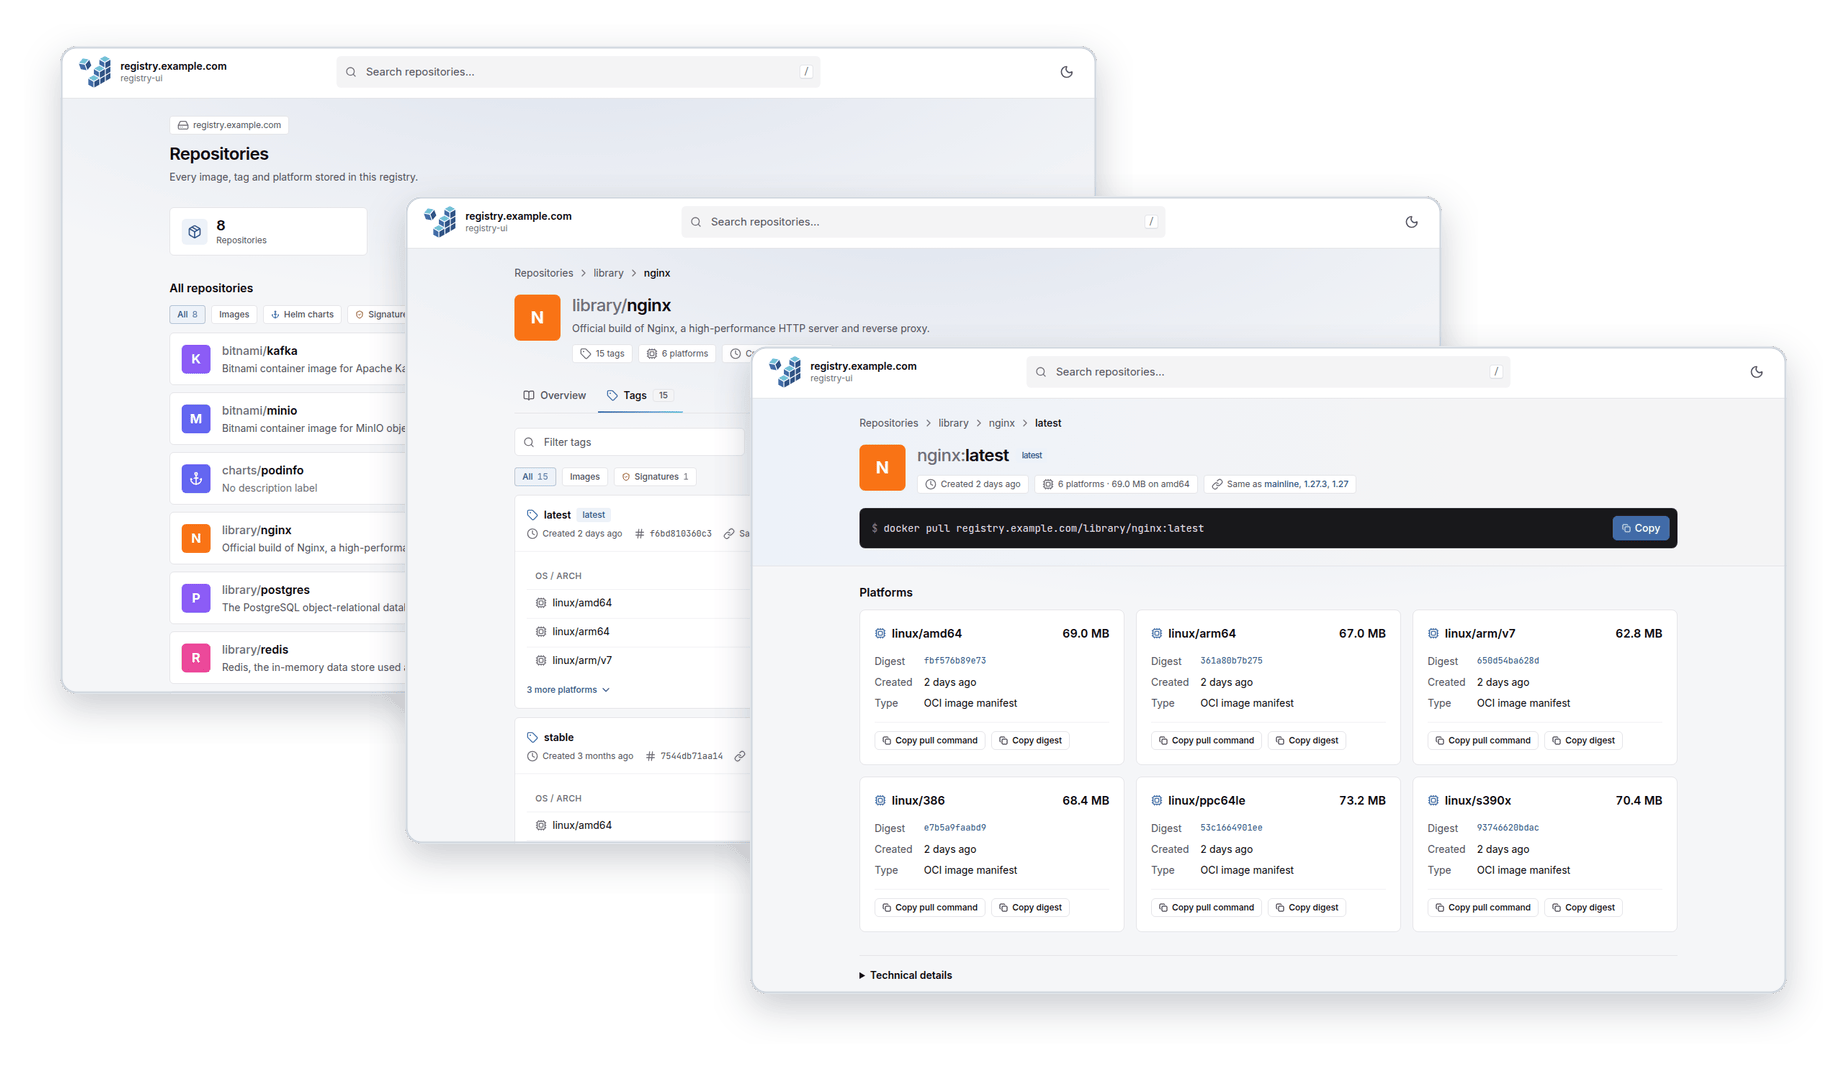
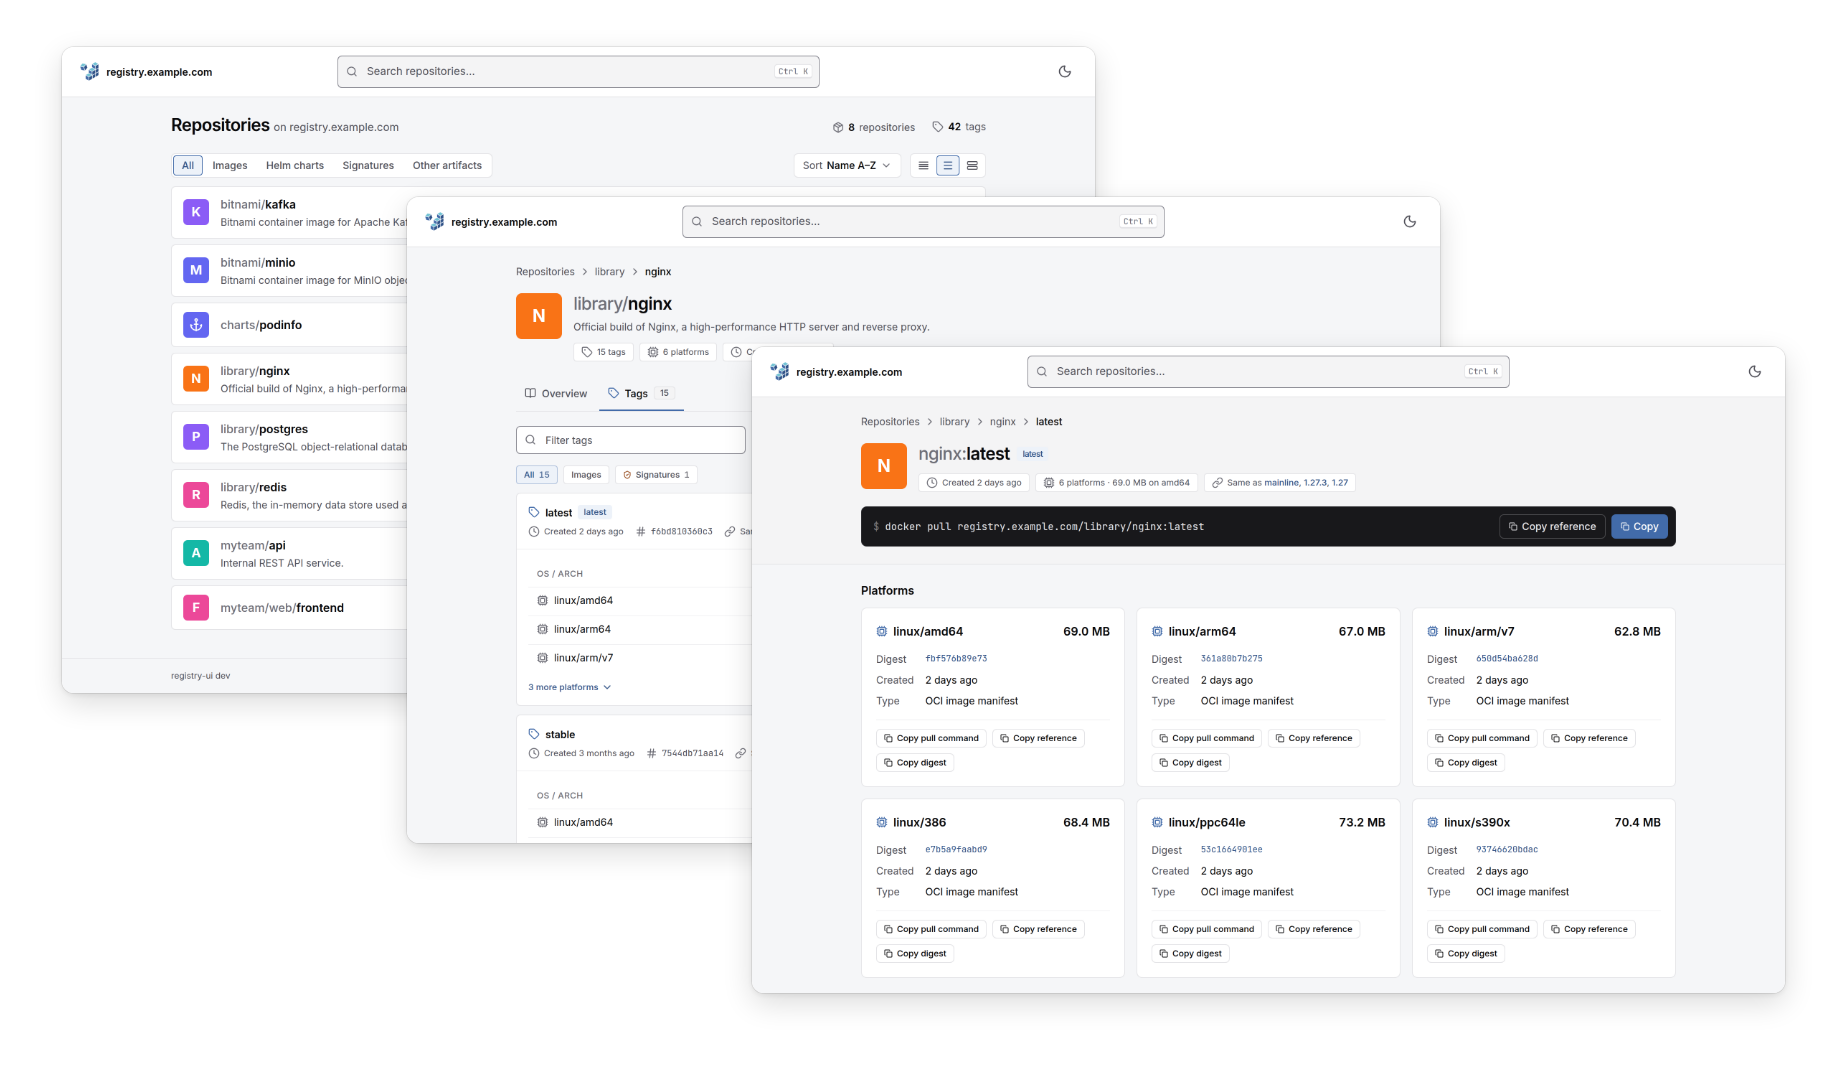
docs: complete the documentation for 1.0 (#155)
The README now lists both places the image is published and how its
tags work, shows a setup for a registry behind htpasswd, and has a
troubleshooting section for the problems people hit most: an
unreachable registry, TLS and private CAs, a registry that won't list
its repositories, sub-path proxies, sign-in behind a proxy, and storage
mode pointed at the wrong folder. The tagline is new, the container
image badge is gone, and the screenshot is retaken from the current UI.

The development notes move to a new CONTRIBUTING.md, which also covers
the checks CI runs, the footprint budgets, the benchmarks and the
project's conventions.

Closes #33

diff --git a/README.md b/README.md
@@ -5,11 +5,10 @@
   </picture>
 </p>
 
-<p align="center">See what's in your container registry, including your pull-through cache.</p>
+<p align="center">A lightweight web UI for self-hosted Docker/OCI registries</p>
 
 <p align="center">
   <a href="https://github.com/Ahhhh-man/registry-ui/actions/workflows/ci.yml"><img src="https://github.com/Ahhhh-man/registry-ui/actions/workflows/ci.yml/badge.svg" alt="CI"></a>
-  <a href="https://github.com/Ahhhh-man/registry-ui/pkgs/container/registry-ui"><img src="https://img.shields.io/badge/image-ghcr.io%2Fahhhh--man%2Fregistry--ui-blue" alt="Container image"></a>
   <a href="go.mod"><img src="https://img.shields.io/badge/go-1.27-00ADD8?logo=go&amp;logoColor=white" alt="Go version"></a>
   <a href="LICENSE"><img src="https://img.shields.io/badge/license-MIT-blue" alt="License"></a>
 </p>
@@ -46,8 +45,6 @@ volumes:
   registry-data:
 ```
 
-The same image is on Docker Hub as `ahhhhman/registry-ui`, if you'd rather pull from there.
-
 Push something, then open <http://localhost:8080>:
 
 ```sh
@@ -57,6 +54,21 @@ docker push localhost:5000/busybox
 ```
 
 The UI talks to the registry from the server. Docker clients still talk to the registry directly and browsers never do, so there's no CORS to set up. The UI starts even if the registry isn't up yet. The healthcheck only checks the UI itself, so a registry outage won't restart it.
+
+## Images
+
+Each release is one multi-arch image for `linux/amd64` and `linux/arm64`, published in two places:
+
+| Registry | Image |
+|---|---|
+| GitHub Container Registry | `ghcr.io/ahhhh-man/registry-ui` |
+| Docker Hub | `docker.io/ahhhhman/registry-ui` |
+
+They're the same image with the same digest. Prefer ghcr; Docker Hub is a mirror for networks that can only reach Docker Hub, and its pull limits apply there.
+
+Tags are the release version without the `v`, e.g. `1.0.0`, plus `latest`. There are no `1` or `1.0` tags, so pin the full version if you don't want to follow `latest`.
+
+The image runs as a non-root user and has nothing in it but the binary and CA certificates, so there's no shell to `docker exec` into. Logs go to stdout.
 
 ## Configuration
 
@@ -114,6 +126,44 @@ The UI has no users of its own. It does whatever the registry does:
 - Your credentials are sealed (AES-GCM) in an `HttpOnly` cookie that lasts 12 hours. Nothing is written to disk.
 - Without `REGISTRY_UI_SECRET`, the UI picks a new key every time it starts, so a restart signs everyone out. Set it to any long random string, e.g. `openssl rand -hex 32`.
 
+Here's the quick start with the registry behind htpasswd. Create the password file first. The `registry:3` image doesn't ship `htpasswd`, so borrow it from `httpd`:
+
+```sh
+mkdir -p auth
+docker run --rm --entrypoint htpasswd httpd:2 -Bbn alice 'change-me' > auth/htpasswd
+```
+
+```yaml
+services:
+  registry:
+    image: registry:3
+    ports: ["5000:5000"]
+    environment:
+      REGISTRY_AUTH: htpasswd
+      REGISTRY_AUTH_HTPASSWD_REALM: registry
+      REGISTRY_AUTH_HTPASSWD_PATH: /auth/htpasswd
+    volumes:
+      - registry-data:/var/lib/registry
+      - ./auth:/auth:ro
+
+  registry-ui:
+    image: ghcr.io/ahhhh-man/registry-ui:latest
+    ports: ["8080:8080"]
+    environment:
+      REGISTRY_UI_REGISTRY_URL: http://registry:5000
+      REGISTRY_UI_PULL_URL: localhost:5000
+      REGISTRY_UI_SECRET: ${REGISTRY_UI_SECRET:?set it in .env}
+    healthcheck:
+      test: ["CMD", "/registry-ui", "healthcheck"]
+
+volumes:
+  registry-data:
+```
+
+Put `REGISTRY_UI_SECRET=` and a random value in a `.env` file next to `compose.yaml`. Open <http://localhost:8080> and the UI asks you to sign in as `alice`.
+
+Behind a token server (`REGISTRY_AUTH: token`), the UI signs in the same way. The token server decides what each user may see, so it has to grant `registry:catalog:*` for the repository list to work. See [The repository list says "You can't list repositories"](#the-repository-list-says-you-cant-list-repositories).
+
 ## Pull-through caches
 
 If your registry is a pull-through cache (`REGISTRY_PROXY_REMOTEURL`), use storage mode. Browsing a cache through its API asks the upstream for every tag list, and clicking a tag that isn't cached yet makes the registry pull and store it. Both eat into your upstream rate limit, and you end up looking at the upstream's tags instead of your cache.
@@ -157,9 +207,56 @@ Some limits:
 
 [CNCF Distribution](https://distribution.github.io/distribution/) (`registry:2` and `registry:3`) is the one that's supported and tested. Other registries that implement the OCI distribution API and `/v2/_catalog` should work, but nobody has tested them. GHCR, Docker Hub and ECR restrict or leave out `_catalog`, so don't expect them to work.
 
+## Troubleshooting
+
+Start with the UI's logs (`docker compose logs registry-ui`). Every request is logged, and a failed one also logs the error the registry gave. `REGISTRY_UI_LOG_LEVEL=debug` adds the reasons for not-found pages and sign-in redirects.
+
+### "Can't reach the registry"
+
+The UI couldn't connect to the registry, or the registry answered with a server error. Things to check:
+
+- `REGISTRY_UI_REGISTRY_URL` is the address *the UI's container* uses, not your browser. In Compose that's the service name, e.g. `http://registry:5000`, not `localhost`.
+- The scheme matches. A registry without TLS needs `http://`. A registry with TLS needs `https://`.
+- The registry is up: `docker compose logs registry`. The page has a Try again button, so it's fine if the UI starts first.
+
+### TLS errors and private CAs
+
+If the log shows `x509: certificate signed by unknown authority`, the registry's certificate comes from a CA the image doesn't trust. Mount your CA certificate and point `SSL_CERT_DIR` at its folder:
+
+```yaml
+    environment:
+      SSL_CERT_DIR: /certs
+    volumes: ["./ca:/certs:ro"]
+```
+
+`x509: certificate is valid for …, not …` means `REGISTRY_UI_REGISTRY_URL` uses a different host name than the certificate. Use the name on the certificate. `REGISTRY_UI_REGISTRY_INSECURE=true` skips verification, which is fine for a quick test but not for good.
+
+### The repository list says "You can't list repositories"
+
+The registry answered `403` (or `401` while signed in) to `/v2/_catalog`. With htpasswd every signed-in user may list repositories, so this nearly always means a token server that doesn't grant the `registry:catalog:*` scope to that user, or to anonymous users. Grant it there. Until then you can still open a repository by typing its address after the UI's URL, e.g. `/library/nginx`.
+
+### Pages are blank, unstyled or 404 under a sub-path
+
+- `REGISTRY_UI_BASE_PATH` has to match the path the proxy forwards, e.g. `/registry/`.
+- The proxy has to pass the path through *with* the prefix. If it strips `/registry`, the UI answers every page with "Not found". In nginx that means `proxy_pass http://registry-ui:8080;` with no path after the port. In Caddy, use `handle`, not `handle_path`.
+- Opening `/registry` without the trailing slash redirects to `/registry/`, which is expected.
+
+### Sign-in says "cross-origin request refused"
+
+The sign-in form only accepts posts from its own site. It compares the browser's `Origin` with the `Host` the UI sees, or with `X-Forwarded-Host`. Make the proxy pass the original `Host`, or set `X-Forwarded-Host`, and pass `X-Forwarded-Proto` so the cookie is marked `Secure`. See [TLS and reverse proxies](#tls-and-reverse-proxies).
+
+Sign-in also lasts only until the UI restarts unless `REGISTRY_UI_SECRET` is set.
+
+### Storage mode won't start, or shows nothing
+
+- `not a registry storage root (no docker/registry/v2 inside)` means `REGISTRY_UI_STORAGE_PATH` points at the wrong folder. It has to be the folder the registry has at `/var/lib/registry`, the one that contains `docker/registry/v2`, not that folder itself or its parent.
+- The UI starts but the list is empty: the UI is probably looking at a different volume from the registry. Both services have to mount *the same* named volume or host folder. A typo in the volume name gives you a new, empty one. `docker compose exec registry ls /var/lib/registry/docker/registry/v2/repositories` shows what the registry has.
+- A permission error in the log means the UI's user (UID 65532) can't read the files. Make the storage world-readable, or run the UI with the registry's user (`user:` in Compose).
+- Storage mode needs the `filesystem` storage driver. With S3 or another driver there's nothing on disk to read, so use the API instead.
+
 ## No telemetry
 
-The UI only ever talks to the registry you point it at. No telemetry, no update checks, no CDNs. Fonts, scripts and styles are all embedded in the binary. The footer's links to GitHub are plain links: nothing is fetched from GitHub, and the UI never checks whether a newer version exists.
+The UI only ever talks to the registry you point it at. It has no telemetry and loads nothing from a CDN, because fonts, scripts and styles are all embedded in the binary. The footer links to GitHub, but they're plain links. Nothing is fetched from GitHub, and the UI never checks for a newer version.
 
 ## Footprint
 
@@ -169,42 +266,21 @@ The UI is meant to cost next to nothing while nobody is using it. It has three b
 |---|---|
 | Image under 20 MB uncompressed | 12.2 MB on amd64, 11.4 MB on arm64 |
 | Idle memory under 15 MB, after browsing 1,000 repositories with 5,000 tags | About 11.5 MB in storage mode and 13 MB in API mode |
-| Nothing running while idle | One goroutine, waiting for a connection. No CPU time over 100 seconds in storage mode, and 20–30 ms in API mode, where the registry connections close during the wait |
+| Nothing running while idle | One goroutine, waiting for a connection. No CPU time over 100 seconds in storage mode, and 20 to 30 ms in API mode, where the registry connections close during the wait |
 
 How they're measured:
 
-- **Image size** is the uncompressed image tarball from `nix build .#image`, the sum of its layers. CI fails a pull request whose amd64 image is over the limit, and the release workflow checks both architectures before it pushes anything.
-- **Idle memory** is the private resident memory (`RssAnon` in `/proc/<pid>/status`) of the release binary. It's what the process allocated, and about what `docker stats` shows: 11.8 MiB for the storage mode run in a container. Total RSS is about 10 MB higher, because it also counts the executable's own pages, which are shared with the page cache. The test serves a generated registry of 1,000 repositories, each with 5 tags that are two-platform images. It loads the catalog in every view, then sorted and filtered in the ways that read every repository's details, then each repository sorted by created date, which reads every tag, and one tag page per repository. Then it leaves the UI alone for 100 seconds and reads the memory.
-- **Nothing running** comes from the same run. After the idle wait, the test sends `SIGQUIT`, which makes the Go runtime print every goroutine as it exits. Apart from the runtime's own, only the server's listener may be left. The registry client keeps idle connections open for 90 seconds, which is why the wait is 100. The test also reads the process's CPU time before and after the wait.
+- Image size is the uncompressed image tarball from `nix build .#image`, the sum of its layers. CI fails a pull request whose amd64 image is over the limit, and the release workflow checks both architectures before it pushes anything.
+- Idle memory is the private resident memory (`RssAnon` in `/proc/<pid>/status`) of the release binary. It's what the process allocated, and about what `docker stats` shows: 11.8 MiB for the storage mode run in a container. Total RSS is about 10 MB higher, because it also counts the executable's own pages, which are shared with the page cache. The test serves a generated registry of 1,000 repositories, each with 5 tags that are two-platform images. It loads the catalog in every view, then sorted and filtered in the ways that read every repository's details, then each repository sorted by created date, which reads every tag, and one tag page per repository. Then it leaves the UI alone for 100 seconds and reads the memory.
+- Nothing running comes from the same run. After the idle wait, the test sends `SIGQUIT`, which makes the Go runtime print every goroutine as it exits. Apart from the runtime's own, only the server's listener may be left. The registry client keeps idle connections open for 90 seconds, which is why the wait is 100. The test also reads the process's CPU time before and after the wait.
 
 To stay inside the memory budget, the cache holds 5,000 entries, enough for one person to sort a catalog of about 1,600 repositories. The UI also sets the Go runtime's soft memory limit to 10 MiB, so it collects garbage sooner and hands memory back to the OS. Setting `GOMEMLIMIT` replaces that limit.
 
 To check all three on Linux, run `task budget`. It takes about two minutes. It builds the image for your own architecture only.
 
-## Development
+## Contributing
 
-You need [Nix](https://nixos.org) with flakes. The dev shell has Go, the linters, the Tailwind CLI and [Task](https://taskfile.dev).
-
-```sh
-nix develop
-task dev     # serves on :8080, templates and CSS reload on refresh
-task test
-task lint
-task build   # ./registry-ui
-task image   # builds the container image with Nix and loads it into Docker
-```
-
-With [direnv](https://direnv.net) and [nix-direnv](https://github.com/nix-community/nix-direnv), run `direnv allow` once and the dev shell loads whenever you `cd` into the repo.
-
-`task dev` needs `REGISTRY_UI_REGISTRY_URL` pointing at a registry. To work on the UI without one, build with `-tags fake`. That serves built-in sample data. The URL still has to be set, but it isn't used:
-
-```sh
-REGISTRY_UI_REGISTRY_URL=http://unused go run -tags fake .
-```
-
-The CSS is built from `web/tailwind.css` into `internal/ui/static/app.css` with the Tailwind standalone CLI (`task css`, or watched by `task dev`). The output is committed, so building and running the UI needs only Go, with no Node or Tailwind. CI checks that the committed file is up to date, so run `task css` before you commit a template or style change.
-
-No Nix? The `Dockerfile` builds an equivalent image: `docker build -t registry-ui .`. The published image is the Nix one.
+Bug reports and pull requests are welcome. [CONTRIBUTING.md](CONTRIBUTING.md) covers the dev setup and the checks CI runs.
 
 ## License
 

diff --git a/CONTRIBUTING.md b/CONTRIBUTING.md
@@ -1,0 +1,72 @@
+# Contributing
+
+Bug reports, small fixes and documentation are always welcome. For anything bigger, please open an issue first so we can agree on the approach before you spend time on it.
+
+## Dev setup
+
+You need [Nix](https://nixos.org) with flakes. The dev shell has Go, the linters, the Tailwind CLI and [Task](https://taskfile.dev), at the same versions CI uses.
+
+```sh
+nix develop
+task dev     # serves on :8080, templates and CSS reload on refresh
+task test
+task lint
+task build   # ./registry-ui
+task image   # builds the container image with Nix and loads it into Docker
+```
+
+With [direnv](https://direnv.net) and [nix-direnv](https://github.com/nix-community/nix-direnv), run `direnv allow` once and the dev shell loads whenever you `cd` into the repo. The dev shell also installs the repo's git hooks.
+
+`task dev` needs `REGISTRY_UI_REGISTRY_URL` pointing at a registry. To work on the UI without one, build with `-tags fake`. That serves built-in sample data: images, Helm charts, signatures, a multi-arch index with missing platforms, and so on. The URL still has to be set, but it isn't used:
+
+```sh
+REGISTRY_UI_REGISTRY_URL=http://unused go run -tags fake .
+```
+
+No Nix? The `Dockerfile` builds an equivalent image: `docker build -t registry-ui .`. The published image is the Nix one, and you'll need Go and the Tailwind CLI yourself to work on the code.
+
+## CSS
+
+The CSS is built from `web/tailwind.css` into `internal/ui/static/app.css` with the Tailwind standalone CLI (`task css`, or watched by `task dev`). The output is committed, so building and running the UI needs only Go, with no Node or Tailwind. CI checks that the committed file is up to date, so run `task css` before you commit a template or style change.
+
+## Before you push
+
+CI runs all of these, so running them first saves a round trip:
+
+```sh
+gofumpt -l .          # prints nothing when everything is formatted
+task lint
+go test -race ./...
+govendor --check      # the Nix vendor hash matches go.mod
+task css              # and commit app.css if it changed
+```
+
+CI also builds the binary and the image, fails if the image is over 20 MB, and runs smoke tests against a real `registry:3`: anonymous, htpasswd, and a pull-through cache in storage mode that must never contact its upstream.
+
+## Footprint and benchmarks
+
+The UI has three budgets, listed in the README's [Footprint](README.md#footprint) section: the image size, idle memory, and no work while idle. `task budget` checks all three on Linux in about two minutes. Run it if you touch the cache, anything that holds data between requests, or anything that starts a goroutine or timer.
+
+The benchmarks cover the paths that grow with a registry's size: the catalog at up to 10,000 repositories in each view, sort and filter, a repository with 5,000 tags, the tag page, tag sorting and a cache hit. Besides time and allocations, they report the gzipped page size and how many calls per visit got past the cache. That last one doesn't depend on your machine, so it shows when a page has outgrown the cache.
+
+```sh
+task bench                                   # all of them, about two minutes
+task bench -- -bench Catalog                 # just some
+```
+
+Each run is saved to `bench-<commit>-<time>.txt`, which git ignores. To compare a change, run `task bench -- -count 6` before and after, then:
+
+```sh
+go run golang.org/x/perf/cmd/benchstat@v0.0.0-20261009192801-be2c69fb417e old.txt new.txt
+```
+
+CI runs every benchmark once to keep them working, but doesn't look at timings.
+
+## Conventions
+
+- One change per pull request, linked to its issue. Pull requests are squash-merged.
+- Commit subjects follow [Conventional Commits](https://www.conventionalcommits.org): `feat(ui): …`, `fix(registry): …`, `perf(web): …`, `docs: …`, `ci: …`, `chore: …`. Write the body as a few short paragraphs saying what was wrong and what changed, and end it with `Closes #N`. `git log` has plenty of examples.
+- `.gitignore` is a whitelist. It ignores everything and then allows named paths, so a new top-level file or folder has to be added there or git won't see it.
+- Think twice before adding a dependency to `go.mod`. A few lines of our own usually beat a module. If you do add one, `govendor` updates the Nix vendor hash.
+- Errors from the registry go through `web.Error`, so they become the right page and are logged in one place.
+- For tests, `registrytest` has real registry servers (anonymous, basic auth, and on-disk storage, including large generated ones), and the source tests run against both API mode and storage mode. Prefer them to mocks.
